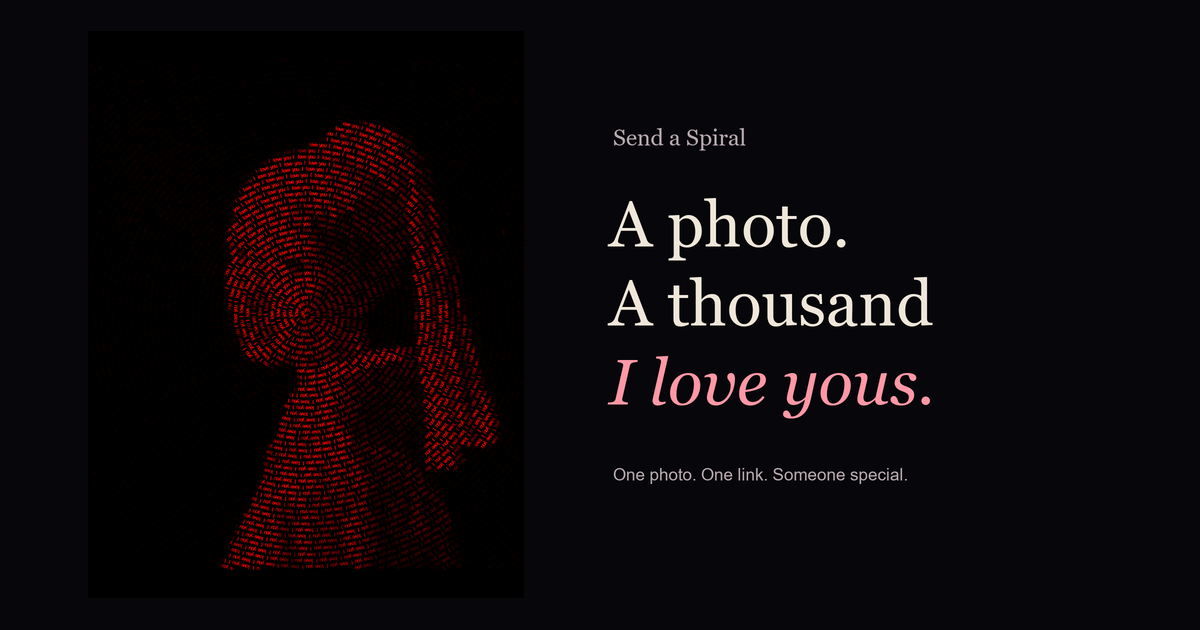
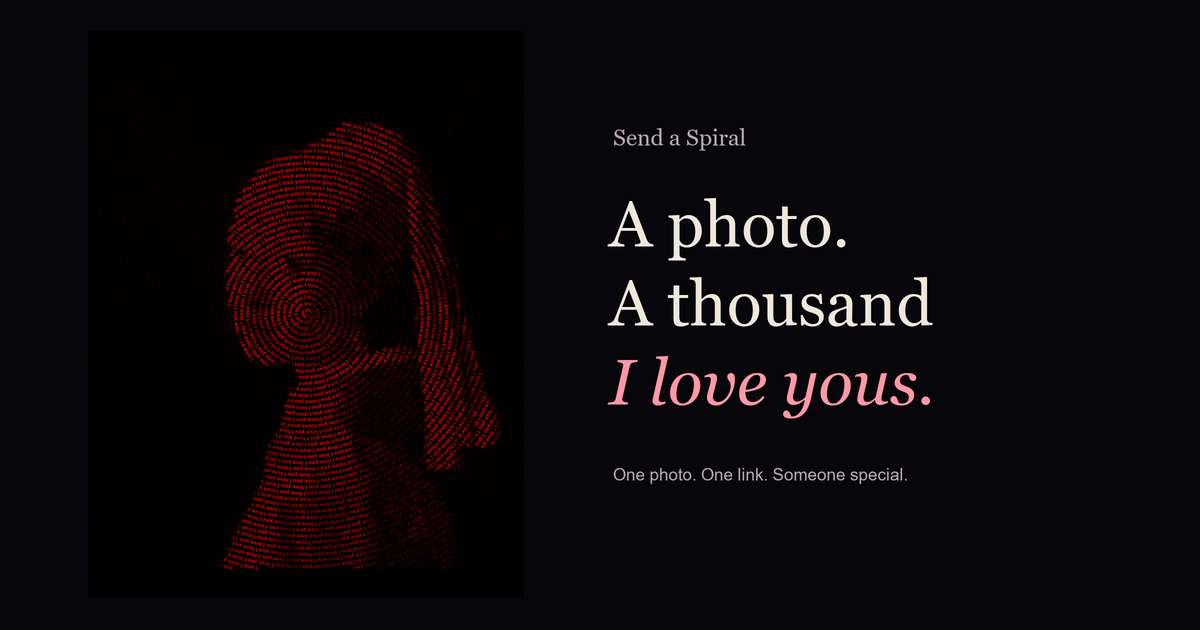
Refine spiral lettering and reveal pacing to match reference

Changed region(s): [[0.185, 0.181, 0.4317, 0.9048]]

diff --git a/draw.js b/draw.js
@@ -2,13 +2,14 @@
 function makeSpiral(canvas) {
   'use strict';
   const width = 600, height = 780, phrase = 'I love you ';
-  const points = Spiral.spiralPoints(width, height);
   const ctx = canvas.getContext('2d', { alpha: false });
   canvas.width = width; canvas.height = height;
+  ctx.font = '700 7.3px Arial, sans-serif';
+  const points = Spiral.spiralPoints(width, height, Array.from(phrase, letter => ctx.measureText(letter).width + .3));
   const sample = document.createElement('canvas');
   sample.width = width; sample.height = height;
   const sampleCtx = sample.getContext('2d', { willReadFrequently: true });
-  let pixels = null, frame = 0, drawn = 0, playing = false, startedAt = 0, elapsed = 0, duration = 12500, generation = 0;
+  let pixels = null, frame = 0, drawn = 0, playing = false, startedAt = 0, elapsed = 0, duration = 11000, generation = 0;
   function clear() { ctx.fillStyle = '#000'; ctx.fillRect(0, 0, width, height); drawn = 0; }
   function paint(until) {
     if (!pixels) return;
@@ -32,7 +33,7 @@ function makeSpiral(canvas) {
     if (progress < 1) frame = requestAnimationFrame(tick);
     else playing = false;
   }
-  function play(ms = 12500) {
+  function play(ms = 11000) {
     cancelAnimationFrame(frame); clear(); elapsed = 0; duration = ms;
     canvas.dataset.progress = '0'; playing = true; startedAt = performance.now();
     if (matchMedia('(prefers-reduced-motion: reduce)').matches) { paint(points.length); playing = false; }

diff --git a/core.js b/core.js
@@ -11,11 +11,14 @@
     if (clean(gift.note, 140)) params.set('n', clean(gift.note, 140));
     return origin + '/f?' + params;
   }
-  function spiralPoints(width, height) {
-    const points = [], pitch = 8.4, advance = 3.1;
-    const b = pitch / (2 * Math.PI), limit = Math.hypot(width, height) / 2;
-    for (let theta = 0, radius = 2; radius <= limit + advance; theta += advance / Math.sqrt(radius * radius + b * b), radius = 2 + b * theta) {
+  function spiralPoints(width, height, letterWidths = [3.1]) {
+    const points = [], pitch = 8.4;
+    const b = pitch / (2 * Math.PI), limit = Math.hypot(width, height) / 2, maxAdvance = Math.max(...letterWidths);
+    for (let theta = 0, radius = 2; radius <= limit + maxAdvance; radius = 2 + b * theta) {
+      const index = points.length;
       points.push({ x: width / 2 + radius * Math.cos(theta), y: height / 2 + radius * Math.sin(theta), radius, angle: theta + Math.atan2(radius, b) });
+      const advance = (letterWidths[index % letterWidths.length] + letterWidths[(index + 1) % letterWidths.length]) / 2;
+      theta += advance / Math.sqrt(radius * radius + b * b);
     }
     return points;
   }

diff --git a/tests/core.test.js b/tests/core.test.js
@@ -31,3 +31,11 @@ test('personalization is bounded without splitting emoji and rejects photo paths
   assert.equal(Spiral.clean('💕'.repeat(45), 40), '💕'.repeat(40));
   assert.equal(Spiral.readGift(new URLSearchParams({p:'../../private'})).photo, '');
 });
+
+test('spiral text respects proportional letter widths instead of crowding wide letters', () => {
+  const points = Spiral.spiralPoints(360, 480, [2, 2, 8, 8, 2]);
+  const distance = i => Math.hypot(points[i+1].x-points[i].x, points[i+1].y-points[i].y);
+  assert.ok(distance(102) > distance(99) * 3, 'wide letters must leave more room along the path');
+  assert.ok(distance(101) > distance(99) * 2, 'transitions use space for both adjacent letters');
+  for (let i=1;i<points.length;i++) assert.ok(points[i].radius >= points[i-1].radius);
+});

diff --git a/tests/crop-ui.test.js b/tests/crop-ui.test.js
@@ -83,7 +83,7 @@ test('a stale image decode cannot replace the newer crop selection',async()=>{
 });
 test('cancelling during preview decode preserves the previous photo pixels', async () => {
   const images = imageLoader(), sampled = [];
-  const output = { dataset: {}, getContext: () => ({ fillRect() {} }) };
+  const output = { dataset: {}, getContext: () => ({ fillRect() {}, measureText:()=>({width:3}) }) };
   const sample = { getContext: () => ({
     fillRect() {}, drawImage(image) { sampled.push(image.src); },
     getImageData: () => ({ data: new Uint8ClampedArray(0) })

diff --git a/tests/draw.test.js b/tests/draw.test.js
@@ -16,6 +16,7 @@ function drawing({ reduced = false, pixel = photoPixel } = {}) {
     const stack = [];
     const context = {
       fillStyle: '#000', x: 0, y: 0, angle: 0, glyphs: [], clears: 0, image: null,
+      measureText(char) { return {width: char === 'I' || char === 'l' || char === ' ' ? 2 : 4}; },
       fillRect(x, y, width, height) {
         assert.deepEqual([x, y, width, height], [0, 0, element.width, element.height]);
         this.glyphs = []; this.image = null; this.clears++;
